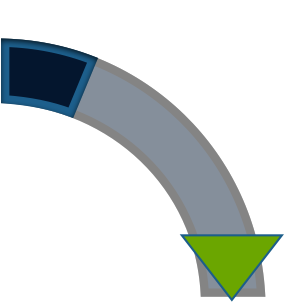
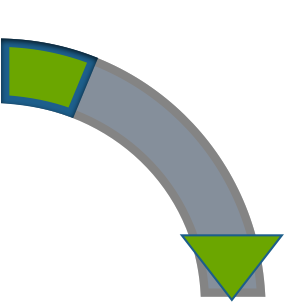
second attempt, added click to advance progress and quadrant labels.

Changed region(s): [[0.0279, 0.1485, 0.3066, 0.3564]]

diff --git a/index.html b/index.html
@@ -51,11 +51,100 @@
      <article>
        <p>Click above to name your Loop
        </p>
+       <h3 class="quad-label">Preparation</h3>
+       <h3 class="quad-label" style="padding-left:340px;">Negotiation</h3>
         <div class=loop >
-              <a class="half-loop"><img src="images/preparation-0.png"></a>
-              <a class="half-loop"><img src="images/negotiation-0.png"></a>
-              <a class="half-loop"><img src="images/acceptance-0.png"></a>
-              <a class="half-loop"><img src="images/performance-0.png"></a>
+                <a class="half-loop"><img id="preparation" onclick="changeImage()" src="images/preparation-0.png">
+                <script>
+                function changeImage() {
+                    var image = document.getElementById('preparation');
+                    if (image.src.match("-0")) {
+                        image.src = "images/preparation-25.png";
+                    }
+                    else if (image.src.match("-25")){
+                        image.src = "images/preparation-50.png";
+                    }
+                    else if (image.src.match("-50")){
+                        image.src = "images/preparation-75.png";
+                    }
+                    else if (image.src.match("-75")){
+                        image.src = "images/preparation-100.png";
+                    }
+                    else if (image.src.match("-100")){
+                        image.src = "images/preparation-0.png";
+                    }
+                }
+                </script>
+              </a>
+                <a class="half-loop"><img id="negotiation" onclick="changeImage2()" src="images/negotiation-0.png">
+                  <script>
+                  function changeImage2() {
+                      var image = document.getElementById('negotiation');
+                      if (image.src.match("-0")) {
+                          image.src = "images/negotiation-25.png";
+                      }
+                      else if (image.src.match("-25")){
+                          image.src = "images/negotiation-50.png";
+                      }
+                      else if (image.src.match("-50")){
+                          image.src = "images/negotiation-75.png";
+                      }
+                      else if (image.src.match("-75")){
+                          image.src = "images/negotiation-100.png";
+                      }
+                      else if (image.src.match("-100")){
+                          image.src = "images/negotiation-0.png";
+                      }
+                  }
+                  </script>
+                </a>
+                <a class="half-loop"><img id="acceptance" onclick="changeImage3()" src="images/acceptance-0.png">
+                    <script>
+                    function changeImage3() {
+                        var image = document.getElementById('acceptance');
+                        if (image.src.match("-0")) {
+                            image.src = "images/acceptance-25.png";
+                        }
+                        else if (image.src.match("-25")){
+                            image.src = "images/acceptance-50.png";
+                        }
+                        else if (image.src.match("-50")){
+                            image.src = "images/acceptance-75.png";
+                        }
+                        else if (image.src.match("-75")){
+                            image.src = "images/acceptance-100.png";
+                        }
+                        else if (image.src.match("-100")){
+                            image.src = "images/acceptance-0.png";
+                        }
+                    }
+                    </script>
+                  </a>
+                  <a class="half-loop"><img id="performance" onclick="changeImage4()" src="images/performance-0.png">
+                      <script>
+                      function changeImage4() {
+                          var image = document.getElementById('performance');
+                          if (image.src.match("-0")) {
+                              image.src = "images/performance-25.png";
+                          }
+                          else if (image.src.match("-25")){
+                              image.src = "images/performance-50.png";
+                          }
+                          else if (image.src.match("-50")){
+                              image.src = "images/performance-75.png";
+                          }
+                          else if (image.src.match("-75")){
+                              image.src = "images/performance-100.png";
+                          }
+                          else if (image.src.match("-100")){
+                              image.src = "images/performance-0.png";
+                          }
+                      }
+                    </script>
+                    </a>
+            <h3 class="quad-label">Acceptance</h3>
+            <h3 class="quad-label" style="padding-left:340px;">Peparation</h3>
+
         </div>
         <h2>Reciproccation Loop</h2>
         <article>

diff --git a/index.css b/index.css
@@ -18,20 +18,32 @@ html
     }*/
     h1 {
       color: #000000;
-      text-shadow: 2px 2px 2px #1C8B85;
+      text-shadow: 2px 2px 2px #1C5E8C;
     }
     h2 {
       color: #000000;
-      text-shadow: 2px 2px 2px #1C8B85;
+      text-shadow: 2px 2px 2px #1C5E8C;
       text-decoration: underline;
+    }
+    h3 {
+      color: #1C5E8C;
+      text-shadow: 2px 2px 2px #6BA600;
+      text-decoration:none;
+      padding-left:20px;
+      padding-top:20px;
+    }
+    h4 {
+      color: #1C5E8C;
+      text-shadow: 2px 2px 2px #6BA600;
+      float:none;
     }
     p {
       color: #000000;
-      text-shadow: 2px 2px 2px #1C8B85;
+      text-shadow: 2px 2px 2px #1C5E8C;
     }
     li {
       color: #000000;
-      text-shadow: 2px 2px 2px #1C8B85;
+      text-shadow: 2px 2px 2px #1C5E8C;
     }
     header {
         background-color:#;
@@ -53,6 +65,9 @@ html
     display:inline-block;
     width: 287px;
     height: 303px;
+   }
+   .quad-label{
+     display:inline-block;
    }
     nav {
         line-height:;
